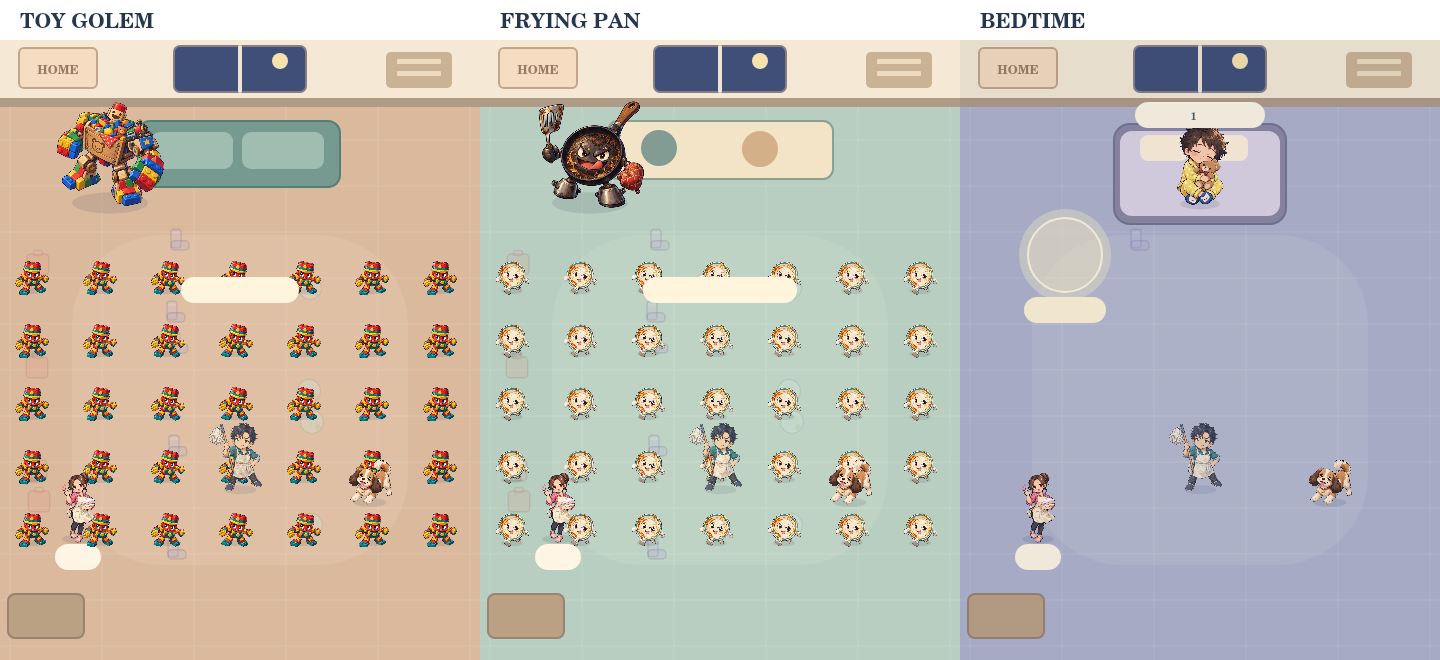
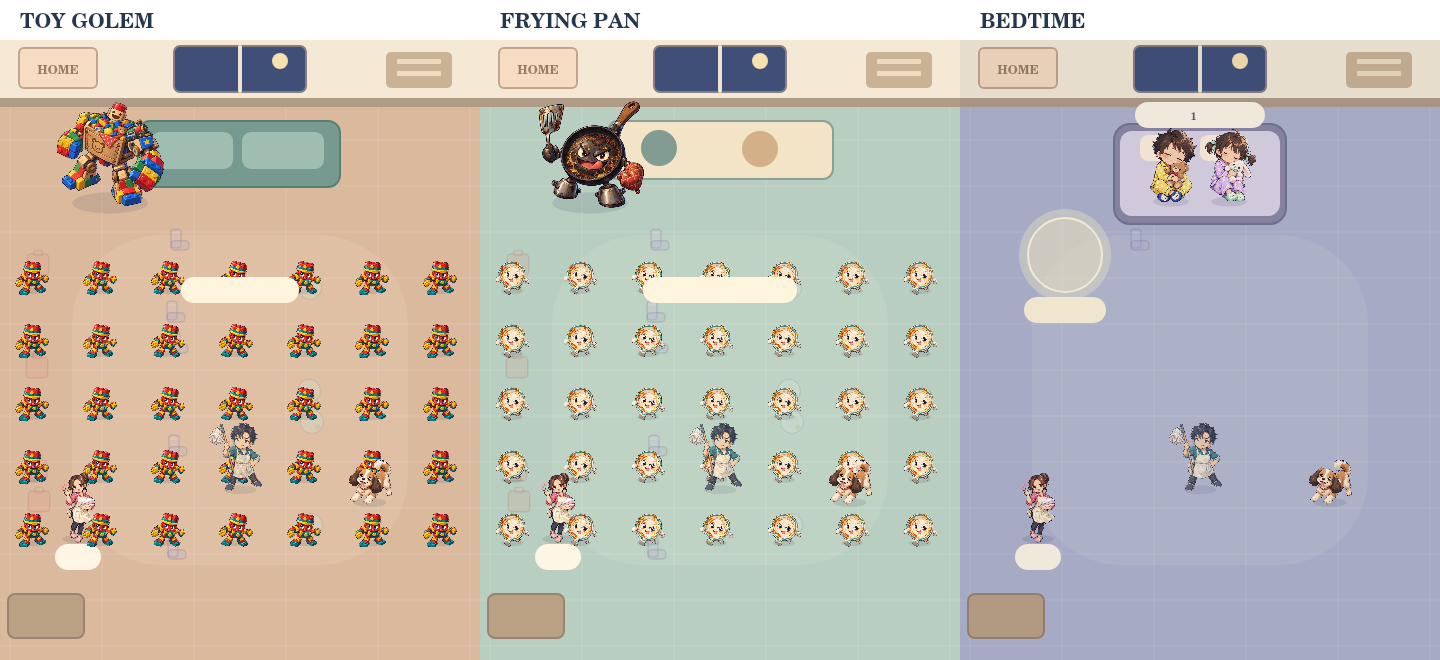
feat: add girl sibling with awake and sleeping artwork

Changed region(s): [[0.7812, 0.1818, 0.875, 0.3333]]

diff --git a/games/hayaku-netai-yusha/render.js b/games/hayaku-netai-yusha/render.js
@@ -30,16 +30,17 @@ export class Painter {
     const c = this.ctx; c.beginPath(); c.ellipse(x, y, rx, ry, 0, 0, 7); c.fillStyle = '#26365020'; c.fill();
   }
   person(x, y, kind = 'hero', scale = 1, sleepy = false) {
-    const id = kind === 'child' && sleepy ? 'child-sleep' : kind;
+    const isChild = kind === 'child' || kind === 'girl';
+    const id = isChild && sleepy ? kind + '-sleep' : kind;
     // Keep existing closed-eye poses for adults until dedicated sleeping art exists.
-    if ((!sleepy || kind === 'child') && this.art.get(id)) {
+    if ((!sleepy || isChild) && this.art.get(id)) {
       this.shadow(x, y + 23 * scale, 19 * scale);
       this.sprite(id, x, y + 27 * scale + (sleepy ? 0 : Math.sin(this.time * 3) * scale), 84 * scale);
       return;
     }
     const c = this.ctx; c.save(); c.translate(x, y); c.scale(scale, scale);
-    const child = kind === 'child', mama = kind === 'mama';
-    this.shadow(0, 23, 19); const shirt = child ? '#f7cc75' : mama ? '#eaa4a0' : '#77bcb5';
+    const child = isChild, mama = kind === 'mama';
+    this.shadow(0, 23, 19); const shirt = kind === 'girl' ? '#bca1e4' : child ? '#f7cc75' : mama ? '#eaa4a0' : '#77bcb5';
     const bob = Math.sin(this.time * (child ? 4 : 3)) * 1.2;
     c.translate(0, bob);
     this.line(-7, 10, -8, 20, '#354665', 8); this.line(7, 10, 8, 20, '#354665', 8);
@@ -47,6 +48,7 @@ export class Painter {
     if (!child) this.rect(-9, -8, 18, 24, 4, '#f8e5bd');
     this.line(-15, -5, -20, 9, C.skin, 7); this.line(15, -5, 20, 8, C.skin, 7);
     if (mama) this.circle(14, -37, 9, '#674b49');
+    if (kind === 'girl') { this.circle(-18, -28, 8, '#435069'); this.circle(18, -28, 8, '#435069'); }
     this.circle(0, -28, 19, C.skin, '#38485b');
     c.beginPath(); c.arc(0, -29, 19, Math.PI, Math.PI * 2); c.lineTo(17, -25); c.lineTo(10, -31); c.lineTo(4, -26); c.lineTo(-5, -33); c.lineTo(-17, -26); c.closePath(); c.fillStyle = mama ? '#674b49' : '#435069'; c.fill();
     if (sleepy) { this.line(-10, -26, -5, -25, C.ink, 2); this.line(5, -25, 10, -26, C.ink, 2); }
@@ -55,6 +57,10 @@ export class Painter {
     this.line(-3, -18, 3, -18, '#b56e60', 2);
     if (child) { this.circle(0, 1, 5, C.cream); this.text('★', 0, 1, 8, '#dd9e4e'); }
     c.restore();
+  }
+  children(x, y, scale = 1, sleepy = false) {
+    this.person(x - 31 * scale, y, 'child', scale, sleepy);
+    this.person(x + 31 * scale, y, 'girl', scale, sleepy);
   }
   dog(x, y, scale = 1, sleepy = false) {
     if (!sleepy && this.art.get('pochi')) {
@@ -145,7 +151,7 @@ export class Painter {
     const actors = game.enemies.map(e => ({ y: e.y, draw: () => this.enemy(e, game) }));
     actors.push({ y: game.mama.y, draw: () => { this.person(game.mama.x, game.mama.y, 'mama', .83); this.label('ママ', game.mama.x, game.mama.y + 37); if (game.mama.active) this.text('♥', game.mama.x + 23, game.mama.y - 42, 24, '#b3556a'); } });
     actors.push({ y: game.pochi.y, draw: () => { this.dog(game.pochi.x, game.pochi.y, .78); if (game.pochi.active) this.text('♪', game.pochi.x, game.pochi.y - 37, 22, '#5e7857'); } });
-    if (game.familyTask) actors.push({ y: game.child.y, draw: () => { this.person(game.child.x, game.child.y, 'child', 1.04, game.child.progress >= 80 && game.isBedtime); this.label(game.child.mood, game.child.x, game.child.y - 65); } });
+    if (game.familyTask) actors.push({ y: game.child.y, draw: () => { this.children(game.child.x, game.child.y, .94, game.child.progress >= 80 && game.isBedtime); this.label(game.child.mood, game.child.x, game.child.y - 65); } });
     actors.push({ y: game.hero.y, draw: () => { if (game.hero.invulnerable > 0) c.globalAlpha = .6 + .4 * Math.sin(time * 18) ** 2; this.person(game.hero.x, game.hero.y, 'hero', .86); c.globalAlpha = 1; } });
     actors.sort((a, b) => a.y - b.y).forEach(a => a.draw());
     for (const e of game.effects) this.fx(e, game);
@@ -218,12 +224,12 @@ export class Painter {
     const sleep = ['sleep', 'familySleep', 'nightEnd'].includes(kind);
     if (sleep) {
       this.rect(116, 369, 246, 116, 14, '#93889c'); this.rect(127, 379, 224, 94, 13, '#c3bed5');
-      this.person(230, 408, 'child', 1.3, true);
-      if (kind !== 'sleep') { this.person(161, 405, 'hero', 1.3, true); this.person(301, 405, 'mama', 1.3, true); }
-      else this.person(326, 416, 'hero', 1.5);
+      this.children(239, 408, 1.02, true);
+      if (kind !== 'sleep') { this.person(146, 405, 'hero', 1.2, true); this.person(333, 405, 'mama', 1.2, true); }
+      else this.person(339, 416, 'hero', 1.4);
       this.rect(124, 419, kind === 'sleep' ? 153 : 227, 57, 12, '#a5b9bd'); this.dog(335, 497, .9, true); this.text('Z z z', 236, 322, 24, '#7a7494');
     } else {
-      this.person(154, 418, 'hero', 1.6); this.person(325, 416, 'mama', 1.6); this.person(241, 430, 'child', 1.25); this.dog(362, 472, 1.05);
+      this.person(123, 418, 'hero', 1.5); this.person(352, 416, 'mama', 1.5); this.children(240, 430, 1.15); this.dog(382, 480, 1.05);
       if (kind === 'alarm') { this.circle(245, 293, 37, '#f0c37f', '#8d7264'); this.line(245, 293, 245, 270, C.ink); this.line(245, 293, 260, 293, C.ink); this.text('6:30', 240, 535, 40, '#667d89'); }
       if (kind === 'sendoff') this.label('いってきます！', 240, 331);
       if (kind === 'home') this.label('おかえり！', 320, 332);

diff --git a/games/hayaku-netai-yusha/tests/character-art.test.js b/games/hayaku-netai-yusha/tests/character-art.test.js
@@ -5,8 +5,8 @@ import { ART_IDS, MOB_TYPES, BOSS_TYPES, artURL, CharacterArt } from '../charact
 import { NIGHT, MORNING } from '../config.js';
 import { Painter } from '../render.js';
 
-test('every encounter has individual artwork and all 18 WebP files exist', () => {
-  assert.equal(new Set(ART_IDS).size, 18);
+test('every encounter has individual artwork and all 20 WebP files exist', () => {
+  assert.equal(new Set(ART_IDS).size, 20);
   for (const config of [...NIGHT, ...MORNING]) assert.ok(MOB_TYPES.includes(config.prop));
   for (const config of NIGHT.filter(c => c.hp > 0)) assert.ok(BOSS_TYPES.includes(config.prop));
   for (const id of ART_IDS) {
@@ -25,7 +25,7 @@ test('loader caches each asset once and handles image failures without rejection
     }};
   });
   await art.ready;
-  assert.equal(count, 18);
+  assert.equal(count, 20);
   assert.ok(art.get('hero'));
   assert.equal(art.get('mob-bag'), undefined);
   assert.ok(art.failed.has('mob-bag'));
@@ -33,12 +33,12 @@ test('loader caches each asset once and handles image failures without rejection
 test('stalled images settle and remain on safe fallback', async () => {
   const art = new CharacterArt(() => ({}), 5);
   await art.ready;
-  assert.equal(art.failed.size, 18);
+  assert.equal(art.failed.size, 20);
 });
 test('missing Image support does not prevent renderer setup', async () => {
   const art = new CharacterArt(() => { throw new Error('unavailable'); });
   await art.ready;
-  assert.equal(art.failed.size, 18);
+  assert.equal(art.failed.size, 20);
 });
 test('renderer uses separate enemy/boss and child sleeping sprites', () => {
   const ids = [], draws = [];
@@ -53,8 +53,10 @@ test('renderer uses separate enemy/boss and child sleeping sprites', () => {
   p.person(100, 200, 'hero');
   p.person(100, 200, 'mama');
   p.person(100, 200, 'child');
+  p.person(100, 200, 'girl');
+  p.person(100, 200, 'girl', 1, true);
   p.dog(100, 200);
-  assert.equal(draws.length, 18);
+  assert.equal(draws.length, 20);
   for (const id of ART_IDS) assert.ok(ids.includes(id), id);
 });
 test('renderer can draw enemies and family when artwork is unavailable', () => {
@@ -62,5 +64,17 @@ test('renderer can draw enemies and family when artwork is unavailable', () => {
   const p = new Painter({ getContext: () => ctx }, { get: () => undefined });
   p.enemy({ x: 100, y: 200, radius: 38, prop: 'block', boss: true, hp: 10, maxHp: 10 }, {});
   p.person(100, 200, 'child', 1, true);
+  p.person(100, 200, 'girl', 1, true);
   p.dog(100, 200);
+});
+
+test('both children appear side by side in awake and asleep poses', () => {
+  const p = new Painter({ getContext: () => ({}) }, { get: () => undefined });
+  const people = [];
+  p.person = (...args) => people.push(args);
+  p.children(240, 140, 1, false);
+  p.children(240, 140, 1, true);
+  assert.deepEqual(people.map(a => a[2]), ['child', 'girl', 'child', 'girl']);
+  assert.deepEqual(people.map(a => a[4]), [false, false, true, true]);
+  assert.ok(people[0][0] < people[1][0]);
 });

diff --git a/games/hayaku-netai-yusha/config.js b/games/hayaku-netai-yusha/config.js
@@ -5,7 +5,7 @@ export const NIGHT = [
   { name: '洗濯物の山脈', room: 'laundry', boss: '洗濯マウンテン', prop: 'sock', color: '#a4a5ce', quota: 240, hp: 1020, line: 'ポチ、靴下はおもちゃじゃないよ！', action: '洗濯物の群れを一気に片づけよう。' },
   { name: 'お風呂の大冒険', room: 'bath', boss: '水あかドラゴン', prop: 'bubble', color: '#71b9c1', quota: 280, hp: 1220, line: '子ども「アヒルさんも一緒に入る！」', action: '水流の予告をよけて、お風呂の支度！' },
   { name: '明日の準備', room: 'entry', boss: '忘れ物魔人「アレガナイ」', prop: 'bag', color: '#d5af6b', quota: 320, hp: 1420, line: '明日の自分を、今の自分が助ける。', action: 'ポチと一緒に忘れ物を探そう！' },
-  { name: '寝かしつけの最終決戦', room: 'bedroom', boss: 'まだ、ねむくない！', prop: 'star', color: '#8c94c6', quota: 0, hp: 0, line: '子ども「もう1冊だけ、読んで？」', action: 'お願いの輪に入って、おやすみのお手伝い。' },
+  { name: 'ふたりの寝かしつけ最終決戦', room: 'bedroom', boss: 'ふたりとも、ねむくない！', prop: 'star', color: '#8c94c6', quota: 0, hp: 0, line: '男の子「もう1冊！」 女の子「うさちゃんも一緒！」', action: 'お願いの輪に入って、ふたりのおやすみをお手伝い。' },
 ];
 export const MORNING = [
   { name: 'おはようの攻防', room: 'bedroom', action: 'カーテンを開け、やさしく起こそう。', request: 'おはよう！', prop: 'pillow', color: '#e4b780', child: 'あと、5ふん……' },

diff --git a/games/hayaku-netai-yusha/character-art.js b/games/hayaku-netai-yusha/character-art.js
@@ -1,6 +1,6 @@
 export const MOB_TYPES = ['block', 'plate', 'sock', 'bubble', 'bag', 'star', 'pillow', 'bread'];
 export const BOSS_TYPES = MOB_TYPES.slice(0, 5);
-export const ART_IDS = [...MOB_TYPES.map(p => 'mob-' + p), ...BOSS_TYPES.map(p => 'boss-' + p), 'hero', 'mama', 'pochi', 'child', 'child-sleep'];
+export const ART_IDS = [...MOB_TYPES.map(p => 'mob-' + p), ...BOSS_TYPES.map(p => 'boss-' + p), 'hero', 'mama', 'pochi', 'child', 'child-sleep', 'girl', 'girl-sleep'];
 export const artURL = id => new URL('./assets/characters/' + id + '.webp', import.meta.url).href;
 
 // Load once, never gate game progress on image/network availability.

diff --git a/docs/project/TWO_CHILDREN.md b/docs/project/TWO_CHILDREN.md
@@ -1,0 +1,22 @@
+# 子ども2人のイラスト追加
+
+2026-09-22 / 未公開 / ブランチ codex/hayaku-two-children
+
+既存の男の子をそのまま採用し、女の子を追加。男の子は黄色の星柄パジャマとくま、女の子は紫の月柄パジャマとうさぎ。2人ともかわいい人間の姿で、悪魔化・被ダメージなし。
+
+| 追加素材 | 画像 |
+|---|---|
+| 女の子・通常 | ![女の子](../../games/hayaku-netai-yusha/assets/characters/girl.webp) |
+| 女の子・寝顔 | ![寝顔](../../games/hayaku-netai-yusha/assets/characters/girl-sleep.webp) |
+
+組み込み画像生成（built-in imagegen）で1点ずつ作成。通常姿は採用済み男の子を絵柄の参照にし、寝顔は女の子の通常姿を編集。512px透過WebP、alpha最小0・最大255を確認。
+
+生成指示全文：[girl-prompts.json](../../games/hayaku-netai-yusha/assets/characters/girl-prompts.json)
+
+## ゲームへの反映
+
+- 寝かしつけ・朝の支度で2人が並ぶ。家族の物語、通常エンディング、見送りも2人。
+- 進行は既存の共通ゲージを使用。2人それぞれへの独立したお願い、個別ゲージ、年齢差、名前は未実装／未設定。
+- 男の子と既存18点の画像は変更しない。第1作も変更しない。
+- 自動テスト32件成功。実ブラウザー・スマホの操作感は未確認。
+- 今回もmainへ反映・公開していない。

diff --git a/docs/project/CURRENT_STATE.md b/docs/project/CURRENT_STATE.md
@@ -2,6 +2,13 @@
 
 確認・更新日：2026-09-22
 
+## 最新追加：子どもを2人に
+
+- ユーザーが既存の男の子を採用し、女の子も追加。ブランチ `codex/hayaku-two-children`、基準499f57c、保全 `backup/pre-siblings-499f57c`。
+- 女の子の通常姿・寝顔を個別生成。既存の男の子の画像は変更なし。素材は合計20点。
+- 寝かしつけ・朝の支度・家族の物語・通常ED・見送りに2人を表示。子ども2人共通の進行ゲージで、個別ゲージ・難易度変更は今回なし。いずれも攻撃対象外。
+- 詳細と画像：[TWO_CHILDREN.md](TWO_CHILDREN.md)。未公開。第1作・main・既存URLは変更なし。
+
 ## 最新の未公開制作：キャラクターイラスト
 
 - ブランチ：`codex/hayaku-illustrated-characters`。main e36d22fと未公開ブランチを確認し、タイム撤去240703dを継承。変更前のローカル保全：`backup/pre-character-art-240703d`。

diff --git a/docs/project/SERIES_PLAN.md b/docs/project/SERIES_PLAN.md
@@ -15,6 +15,7 @@
 - 雑魚敵は前作より多く。通常6体分のボス遭遇と裏ボス相当の朝の総力戦。
 - 家事を片づけると家がきれいになる。子どものお願いへの寄り道・報酬。寝かしつけの静かな戦い。
 - ママと愛犬ポチがお助けキャラ。
+- 2026-09-22：子どもは既存の男の子＋追加の女の子の2人。年齢差・名前は未設定。まず通常姿・寝顔と2人の登場を採用。進行ゲージは共通のまま。
 - 子どもは演出上の敵役・夜のラスボス。「まだ遊びたい」「起きたくない」など日常の反応を使う。悪魔っぽくしない。
 - 通常エンディング：子どもを寝かしつけ、自分も無事に眠って終わる。
 - 裏ルート：翌朝、起きない子ども、朝ごはん、歯磨き、着替えなどを乗り越える。子どもを送り出し、自分が出社するまでドラマチックに描く。
